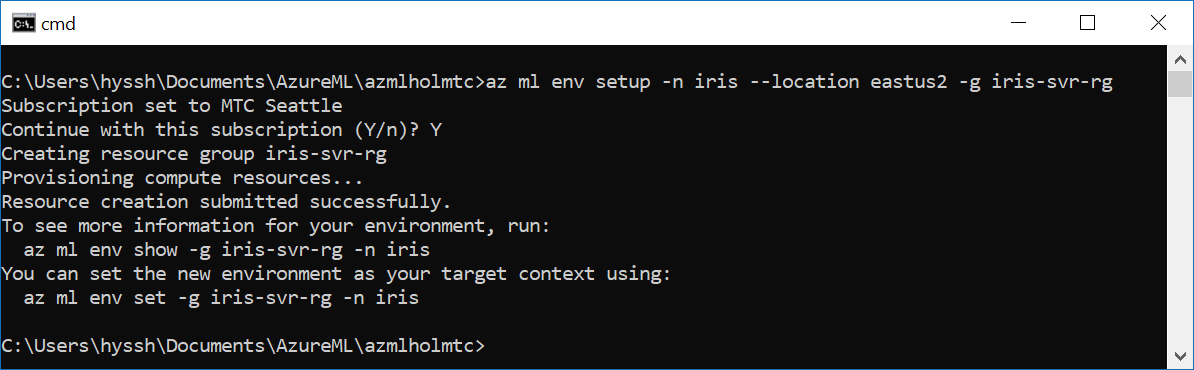
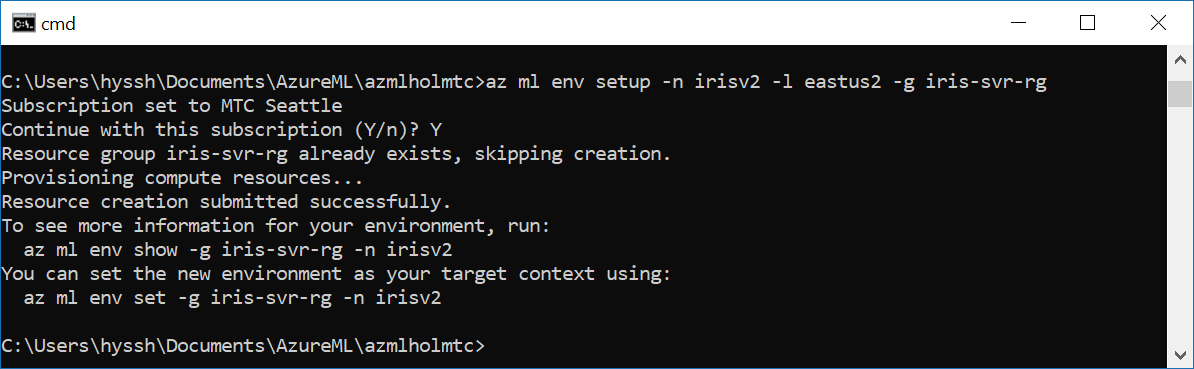
add images for 07 deployment

diff --git a/07.DeployModel.md b/07.DeployModel.md
@@ -79,6 +79,8 @@ You can use _local mode_ for development and testing. The Docker engine must be 
     ![azmlenvsetup](./images/32.png)
 
    Follow the on-screen instructions to provision a storage account for storing Docker images, an Azure container registry that lists the Docker images, and an Azure Application Insights account that gathers telemetry. If you use the `-c` switch, the command will additionally create a Container Service cluster.
+
+   ![azuremlenv](./images/32.01.png)
    
    The cluster name is a way for you to identify the environment. The location should be the same as the location of the Model Management account you created from the Azure portal.
 
@@ -88,21 +90,13 @@ You can use _local mode_ for development and testing. The Docker engine must be 
    az ml env show -n <deployment environment name> -g <existing resource group name>
    ```
 
-   Make sure that "Provisioning State" has the value "Succeeded", as shown, before you set the environment in step 5:
+    Sample Result:
 
-   ![Provisioning State](media/tutorial-classifying-iris/provisioning_state.png)
- 
-3. If you didn't create a Model Management account in previous parts of this tutorial, do so now. This is a one-time setup.
-   ```azurecli
-   az ml account modelmanagement create --location <e.g. eastus2> -n <new model management account name> -g <existing resource group name> --sku-name S1
-   ```
-   
-4. Set the Model Management account.
-   ```azurecli
-   az ml account modelmanagement set -n <youracctname> -g <yourresourcegroupname>
-   ```
+    ![azmlenvsetup](./images/33.png)
 
-5. Set the environment.
+   Make sure that "Provisioning State" has the value "Succeeded", as shown, before process 
+
+4. Set the environment.
 
    After the setup finishes, use the following command to set the environment variables required to operationalize the environment. Use the same environment name that you used previously in step 3. Use the same resource group name that was output in the command window when the setup process finished.
 
@@ -110,11 +104,31 @@ You can use _local mode_ for development and testing. The Docker engine must be 
    az ml env set -n <deployment environment name> -g <existing resource group name>
    ```
 
+    Result will look like:
+
+    ![azmlenvset](./images/38.png)
+
+5. Set the Model Management account.
+   ```azurecli
+   az ml account modelmanagement set -n <youracctname> -g <yourresourcegroupname>
+   ```
+    > If you're not sure about your modelmanagement name and resource group name of the service type following command:
+    >    ```azcli
+    >   az ml account modelmanagement list
+    >   ```
+    >
+    >   ![modelmanagementlist](./images/37.png)
+    >
+
 6. To verify that you have properly configured your operationalized environment for local web service deployment, enter the following command:
 
    ```azurecli
    az ml env show
    ```
+
+    Result will look like:
+
+    ![azmlenvset](./images/39.png)
 
 Now you're ready to create the real-time web service.
 
@@ -122,21 +136,23 @@ Now you're ready to create the real-time web service.
 
 ## 9. Create a real-time web service in your local pc using a line of command
 
-> Before you run following command, check docker is running on your local environment.
+Before you run following command, check **docker is running** on your local environment.
 
 1. To create a real-time web service, use the following command:
 
-   ```azurecli
-   az ml service create realtime -f score_iris.py --model-file model.pkl -s service_schema.json -n irisapp -r python --collect-model-data true -c aml_config\conda_dependencies.yml
-   ```
+```azurecli
+az ml service create realtime -f score_iris.py --model-file model.pkl -s service_schema.json -n irisapp -r python --collect-model-data true -c aml_config\conda_dependencies.yml
+```
 
-   >The service name, which is also the new Docker image name, must be all lowercase. Otherwise, you get an error. 
+![createdockerimg](./images/40.png)
+
+>The service name, which is also the new Docker image name, must be all lowercase. Otherwise, you get an error. 
 
 2. When you run the command, the model and the scoring files are uploaded to the storage account you created as part of the environment setup. The deployment process builds a Docker image with your model, schema, and scoring file in it, and then pushes it to the Azure container registry: **\<ACR_name\>.azureacr.io/\<imagename\>:\<version\>**. 
 
-   The command pulls down the image locally to your computer and then starts a Docker container based on that image. If your environment is configured in cluster mode, the Docker container is deployed into the Azure Cloud Services Kubernetes cluster instead.
+The command pulls down the image locally to your computer and then starts a Docker container based on that image. If your environment is configured in cluster mode, the Docker container is deployed into the Azure Cloud Services Kubernetes cluster instead.
 
-   As part of the deployment, an HTTP REST endpoint for the web service is created on your local machine. After a few minutes, the command should finish with a success message. Your web service is ready for action!
+As part of the deployment, an HTTP REST endpoint for the web service is created on your local machine. After a few minutes, the command should finish with a success message. Your web service is ready for action!
 
 3. To see the running Docker container, use the **docker ps** command:
 
